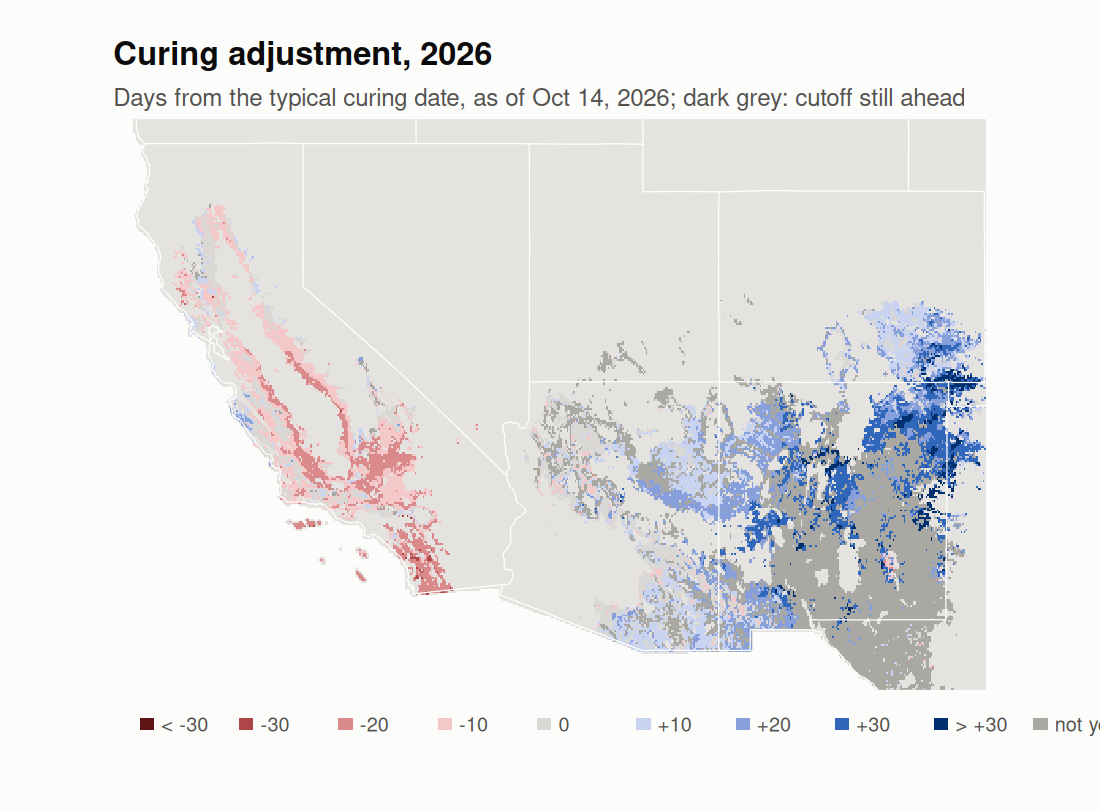
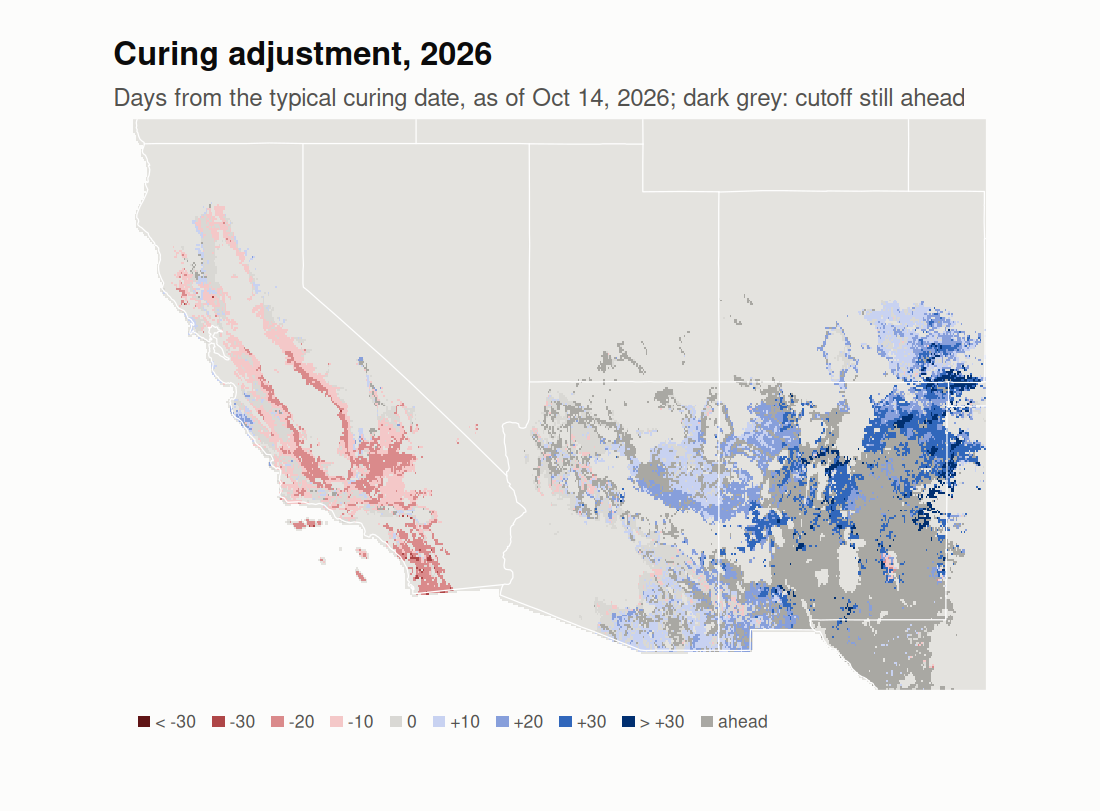
NPN curing study: PRISM extraction at sites, C3/C4 draft, config

diff --git a/CLAUDE.md b/CLAUDE.md
@@ -511,3 +511,21 @@ If a metric's definition changes in `R/` or a script, check the matching tab.
 summaries/static rasters, logs) by scp; host from `GSI_P720_HOST`, remote paths in config `sync:`. It also renders the page
 (`render`) and uploads `index.html` to S3 with the AWS CLI (`publish`, only when asked;
 `GSI_S3_DEST`, optional `GSI_AWS_PROFILE`, `GSI_CF_DIST`). Never handle AWS credentials.
+
+## NPN grass curing study (started Oct 15 2026)
+Scope: project doc claude/gsi-npn-curing-study-scope.md (Q1-Q6, model ladder L0-L4). Decided
+Oct 15 (Mike): code lives here (scripts 50+); likely managed sites flagged and reported both
+ways (needs site names, not in the derived tables yet); C3/C4 drafted in
+`data/npn_species_pathway.csv` (pathway, life cycle, origin, crop) for Mike / Theresa to review;
+config `npn_study:` defaults (min 12 readings, P-PET memory 15/30/60 d, day-length gates 12/11 h).
+Record (Oct 15): 6,420 usable plant-years 2014-2024, 1,706 plants, 132 sites, 72 species (C4
+4,265 plant-years, C3 2,155); g50 down 5,165, cured 3,607, g50 up 2,761; median 34 readings;
+119 site x species with curing in >= 3 years. Strong in the West and Plains (FL, ND, KS, CO, UT,
+OK, TX, NM, CA, AZ), not mostly East as the scope assumed.
+Lessons carried from the rules work: NPN rows are plants (aggregate or model plants within
+site-years explicitly); score year-to-year skill on departures from each site's own mean;
+satellite dates are not a target here.
+- `scripts/50_npn_prism.R` (P720): daily PRISM (ppt, tmin, tmax, vpdmax; 1990 to the last
+  year) at every NPN grass site cell -> <run_dir>/npn_study/npn_site_daily.rds (sites x days),
+  so metrics and the ladder (51+) run anywhere.
+
